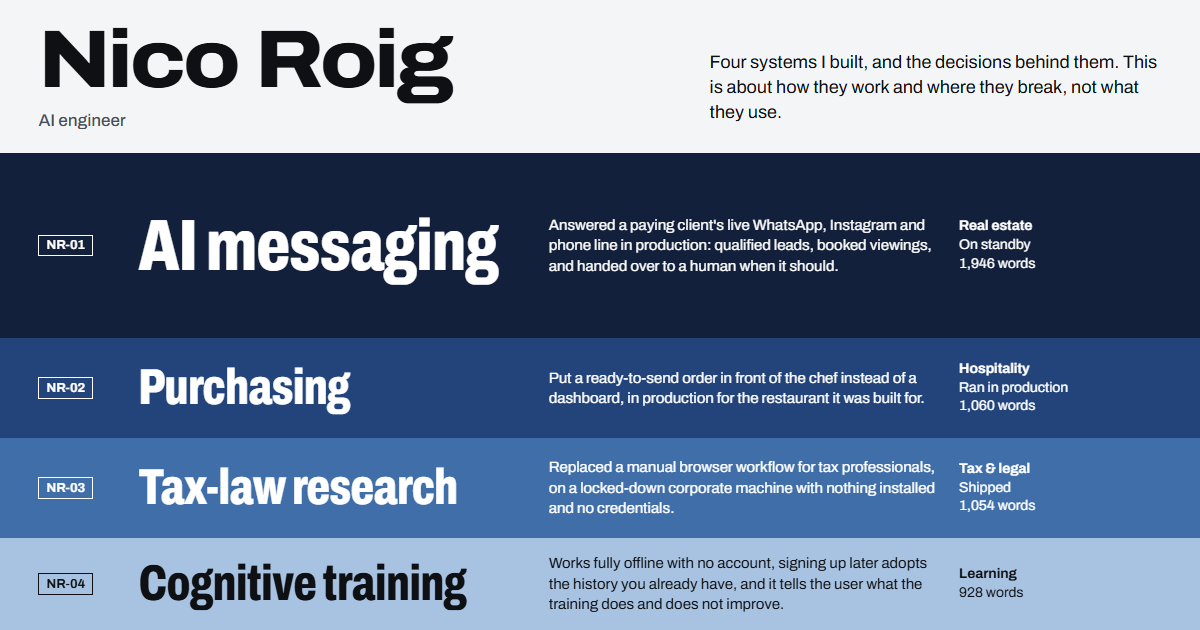
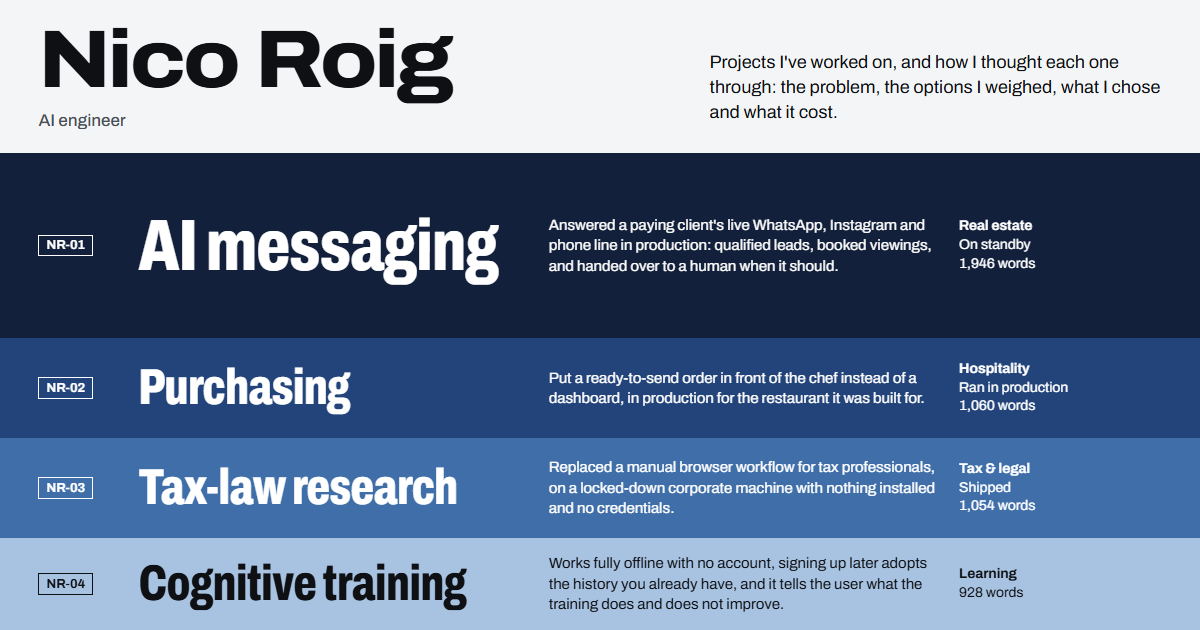
Encabezado como portfolio de proyectos y su planteamiento

Changed region(s): [[0.5858, 0.0905, 0.9867, 0.2111]]

diff --git a/index.html b/index.html
@@ -3,13 +3,13 @@
 <head>
 <meta charset="utf-8">
 <meta name="viewport" content="width=device-width, initial-scale=1">
-<title>Nico Roig — AI engineer. Four systems and the decisions behind them</title>
-<meta name="description" content="Four systems I built and the decisions behind them: multi-tenant AI messaging, restaurant purchasing, tax-law research automation and a local-first training app.">
+<title>Nico Roig — AI engineer. Projects and how I approached them</title>
+<meta name="description" content="Projects I've worked on and how I approached each problem: multi-tenant AI messaging, restaurant purchasing, tax-law research automation and a local-first training app.">
 <link rel="canonical" href="https://nicoroig.dev/">
 <meta property="og:type" content="website">
 <meta property="og:site_name" content="Nico Roig">
-<meta property="og:title" content="Nico Roig — AI engineer. Four systems and the decisions behind them">
-<meta property="og:description" content="Four systems I built and the decisions behind them: multi-tenant AI messaging, restaurant purchasing, tax-law research automation and a local-first training app.">
+<meta property="og:title" content="Nico Roig — AI engineer. Projects and how I approached them">
+<meta property="og:description" content="Projects I've worked on and how I approached each problem: multi-tenant AI messaging, restaurant purchasing, tax-law research automation and a local-first training app.">
 <meta property="og:url" content="https://nicoroig.dev/">
 <meta property="og:image" content="https://nicoroig.dev/assets/og/home.png">
 <meta property="og:image:width" content="1200">
@@ -33,7 +33,7 @@ if(m[location.hash]){location.replace(m[location.hash]);}})();
     <p>AI engineer</p>
   </div>
   <div class="masthead-intro">
-    <p>Four systems I built, and the decisions behind them. This is about how they work and where they break, not what they use.</p>
+    <p>Projects I've worked on, and how I thought each one through: the problem, the options I weighed, what I chose and what it cost.</p>
     <p class="masthead-links"><a href="mailto:nicoroigmeseguer@gmail.com">Email</a> <a href="https://github.com/nicoroig-ai">GitHub</a></p>
   </div>
 </header>
